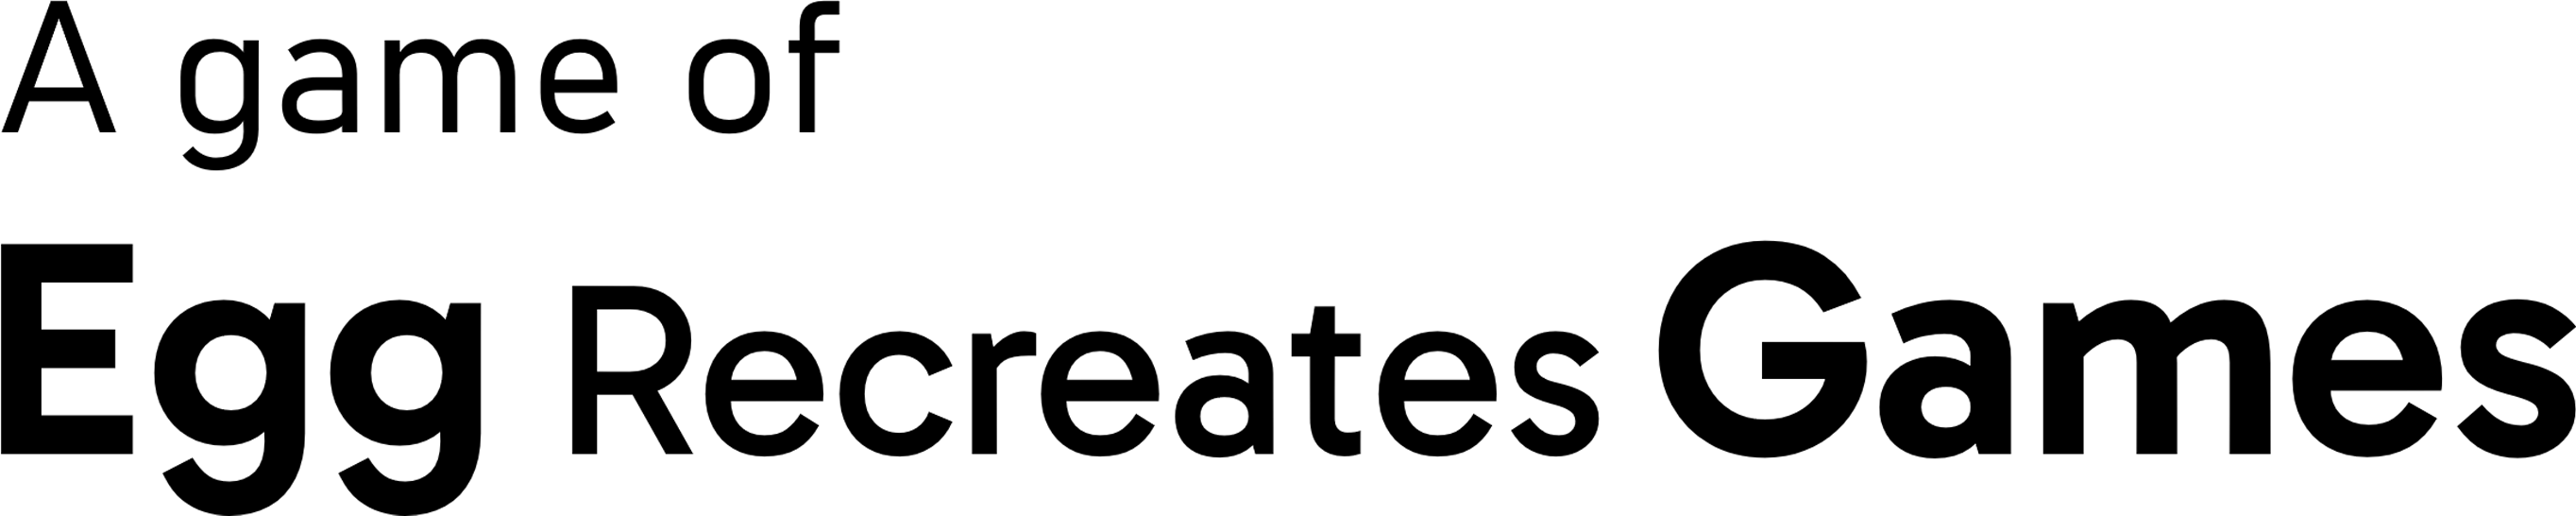
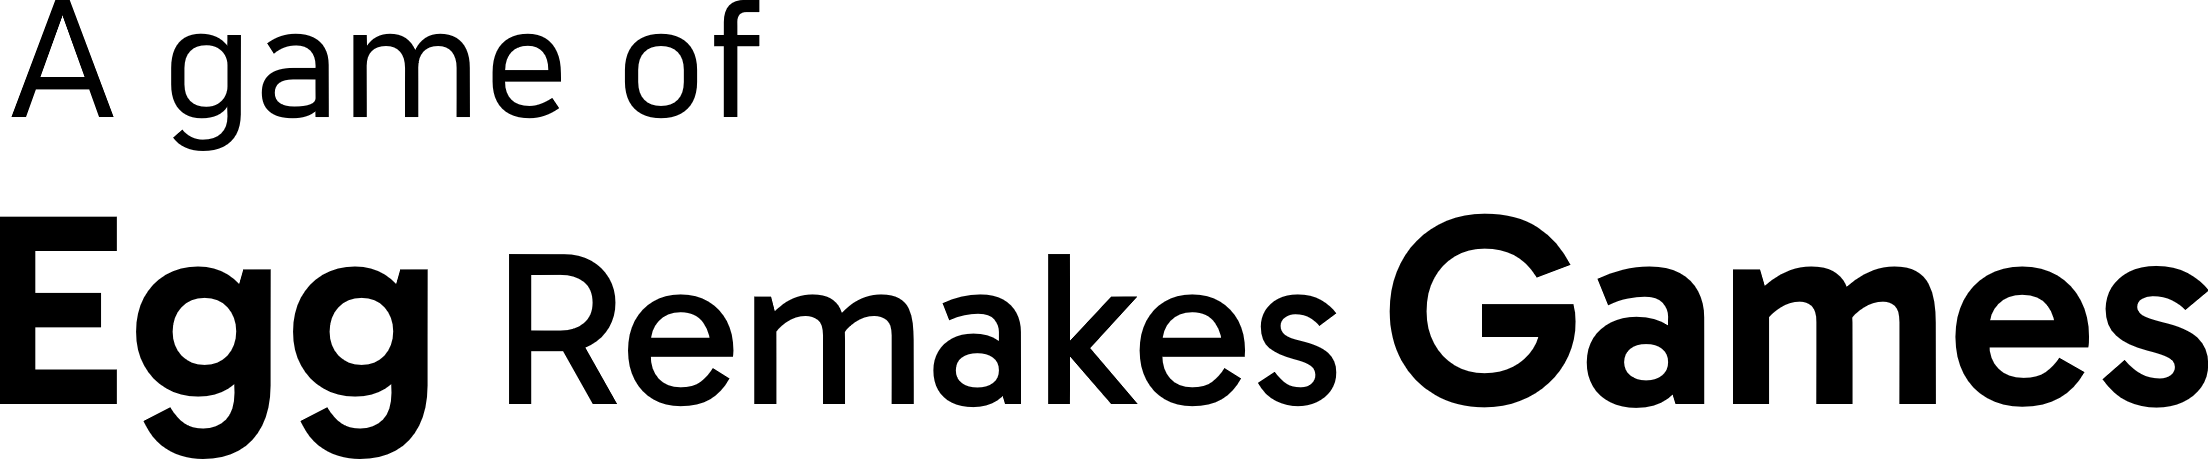
refactor: :art: layout change & ERG rebrand

diff --git a/index.html b/index.html
@@ -1,4 +1,4 @@
-<!DOCTYPE html>
+<!doctype html>
 <html>
   <head>
     <title>ERG Wordle</title>
@@ -6,12 +6,7 @@
     <meta name="viewport" content="width=device-width, initial-scale=1.0" />
     <link rel="canonical" href="https://wordle.bennynguyen.dev/" />
     <link rel="stylesheet" type="text/css" href="styles/index.css" />
-    <link
-      rel="stylesheet"
-      type="text/css"
-      href="styles/light.css"
-      id="themeStyle"
-    />
+    <link rel="stylesheet" type="text/css" href="styles/light.css" id="themeStyle" />
     <script src="scripts/index.js"></script>
     <script src="scripts/responsive.js"></script>
     <script src="scripts/console_noti.js"></script>
@@ -34,10 +29,7 @@
       property="og:description"
       content="Challenge your word-solving skills and see if you can crack the 5-letter word in just 6 tries. Test your vocabulary and logic to unravel the hidden word."
     />
-    <meta
-      property="og:image"
-      content="https://wordle.bennynguyen.dev/lib/wordle-showcase.png"
-    />
+    <meta property="og:image" content="https://wordle.bennynguyen.dev/lib/wordle-showcase.png" />
     <meta property="og:url" content="https://wordle.bennynguyen.dev" />
     <meta name="twitter:card" content="summary_large_image" />
     <meta name="twitter:site" content="@pdteggman" />
@@ -46,114 +38,50 @@
       name="twitter:description"
       content="Challenge your word-solving skills and see if you can crack the 5-letter word in just 6 tries. Test your vocabulary and logic to unravel the hidden word."
     />
-    <meta
-      name="twitter:image"
-      content="https://wordle.bennynguyen.dev/lib/wordle-showcase.png"
-    />
+    <meta name="twitter:image" content="https://wordle.bennynguyen.dev/lib/wordle-showcase.png" />
   </head>
   <body>
     <div id="main">
       <div class="mainpage">
         <header>
-          <img
-            src="lib/ERG-brand-black.png"
-            alt="A game of Egg Recreates Game"
-          />
+          <img src="lib/ERG-brand-black.png" alt="A game of Egg Recreates Game" />
           <h1>Wordle</h1>
         </header>
         <table id="mainLayout">
           <tr>
-            <h2 id="fault" class="hide" style="color: red">
-              Not in word list!
-            </h2>
+            <h2 id="fault" class="hide" style="color: red">Not in word list!</h2>
           </tr>
           <tr>
             <td class="othercolumn">
               <div id="leftCol">
                 <div class="toggle">
                   <p>Toggle theme</p>
-                  <button onclick="toggleTheme(); unfocus()">
+                  <button
+                    onclick="
+                      toggleTheme();
+                      unfocus();
+                    "
+                  >
                     <img src="lib/sun.svg" id="themeIcon" />
                   </button>
                   <br />
                 </div>
-                <div id="myinfo">
-                  <h2>Find me at</h2>
-                  <div class="social">
-                    <a
-                      class="oneline"
-                      href="https://github.com/pdt1806"
-                      target="_blank"
-                      onclick="unfocus()"
-                    >
-                      <img src="lib/social/github.svg" alt="GitHub" />
-                      <p>pdt1806</p>
-                    </a>
-                    <a
-                      class="oneline"
-                      href="https://instagram.com/benny_ng08"
-                      target="_blank"
-                      onclick="unfocus()"
-                    >
-                      <img src="lib/social/instagram.svg" alt="Instagram" />
-                      <p>benny_ng08</p>
-                    </a>
-                    <a
-                      class="oneline"
-                      href="https://facebook.com/pdteggman"
-                      target="_blank"
-                      onclick="unfocus()"
-                    >
-                      <img src="lib/social/facebook.svg" alt="Facebook" />
-                      <p>Phúc Đầu Trứng</p>
-                    </a>
-
-                    <a
-                      class="oneline"
-                      href="https://x.com/pdteggman"
-                      target="_blank"
-                      onclick="unfocus()"
-                    >
-                      <img src="lib/social/x.svg" alt="X" />
-                      <p>pdteggman</p>
-                    </a>
-                    <a
-                      class="oneline"
-                      href="https://discord.com/users/458550515614351360"
-                      target="_blank"
-                      onclick="unfocus()"
-                    >
-                      <img src="lib/social/discord.svg" alt="Discord" />
-                      <p>pdteggman</p>
-                    </a>
-                  </div>
-                </div>
                 <div id="donation">
-                  <a
-                    href="https://github.com/sponsors/pdt1806"
-                    target="_blank"
-                    onclick="unfocus()"
+                  <a href="https://github.com/sponsors/pdt1806" target="_blank" onclick="unfocus()"
                     ><img
                       src="/lib/github-sponsors.png"
                       alt="GitHub Sponsors"
                       height="50px"
                       style="margin-bottom: 10px"
                   /></a>
-                  <a
-                    href="https://www.buymeacoffee.com/pdteggman"
-                    target="_blank"
-                    onclick="unfocus()"
+                  <a href="https://www.buymeacoffee.com/pdteggman" target="_blank" onclick="unfocus()"
                     ><img
                       src="https://img.buymeacoffee.com/button-api/?text=Buy me a coffee&emoji=☕&slug=pdteggman&button_colour=FFDD00&font_colour=000000&font_family=Inter&outline_colour=000000&coffee_colour=ffffff"
                       alt="Buy me a coffee"
                   /></a>
-                  <p>since this website is ad-free :33</p>
+                  <!-- <p><i>since this website is ad-free :33</i></p> -->
                 </div>
-                <a
-                  class="oneline"
-                  href="https://bennynguyen.dev/"
-                  target="_blank"
-                  onclick="unfocus()"
+                <a class="oneline" href="https://bennynguyen.dev/" target="_blank" onclick="unfocus()"
                   ><p>More about me and my other works</p>
                   <img src="lib/redirect.png" alt="Redirect" class="redirect"
                 /></a>
@@ -368,12 +296,8 @@
                 </tr>
                 <tr>
                   <td>
-                    <div
-                      id="key"
-                      class="light-grey keyBig"
-                      onclick="backspace()"
-                    >
-                      <img src="lib/keyboard/backspace.png" />
+                    <div id="keyEnter" class="light-grey keyBig" onclick="enter()">
+                      <img src="lib/keyboard/enter.png" />
                     </div>
                   </td>
                   <td>
@@ -396,7 +320,6 @@
                       <p>V</p>
                     </div>
                   </td>
-
                   <td>
                     <div id="keyB" class="light-grey key" onclick="letter('B')">
                       <p>B</p>
@@ -413,12 +336,8 @@
                     </div>
                   </td>
                   <td>
-                    <div
-                      id="keyEnter"
-                      class="light-grey keyBig"
-                      onclick="enter()"
-                    >
-                      <img src="lib/keyboard/enter.png" />
+                    <div id="key" class="light-grey keyBig" onclick="backspace()">
+                      <img src="lib/keyboard/backspace.png" />
                     </div>
                   </td>
                 </tr>
@@ -426,26 +345,14 @@
               <button onclick="reset()" id="restart">Play again</button>
             </td>
             <td class="othercolumn">
-              <h2>What makes ERG Wordle different from the original?</h2>
+              <!-- <h2>What makes ERG Wordle different from the original?</h2>
               <ul>
-                <li>
-                  The word is picked randomly, and is different everytime you
-                  play.
-                </li>
-                <li>
-                  There are unlimited sessions, you can play as many times as
-                  you want.
-                </li>
-                <li>
-                  It counts the time you take to guess the word, and shows it
-                  when you win.
-                </li>
-                <li>
-                  This game is light-weight (with no ads), so it loads really
-                  fast.
-                </li>
+                <li>The word is picked randomly, and is different everytime you play.</li>
+                <li>There are unlimited sessions, you can play as many times as you want.</li>
+                <li>It counts the time you take to guess the word, and shows it when you win.</li>
+                <li>This game is light-weight (with no ads), so it loads really fast.</li>
               </ul>
-              <br />
+              <br /> -->
             </td>
           </tr>
         </table>

diff --git a/styles/index.css b/styles/index.css
@@ -5,6 +5,10 @@ body {
   padding: 0;
   font-family: "Roboto", sans-serif;
   touch-action: manipulation;
+  transition:
+    background-color 0.25s ease-out,
+    color 0.25s ease-out;
+  user-select: none;
 }
 
 header {
@@ -292,7 +296,7 @@ li {
   left: 50%;
   transform: translate(-50%, -50%);
   margin: 0;
-  font-size: 40px;
+  font-size: 35px;
   font-family: "Noto Sans", sans-serif;
 }
 